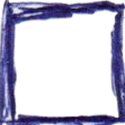
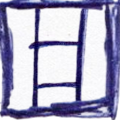
Updated sprites

diff --git a/js/config.js b/js/config.js
@@ -64,7 +64,10 @@ export const CONFIG = {
             'block_03',
             'block_04',
             'block_05',
-            'block_06',         
+            'block_06',
+            'block_07',
+            'block_08',
+            'block_09',         
         ],
 
         // UI
